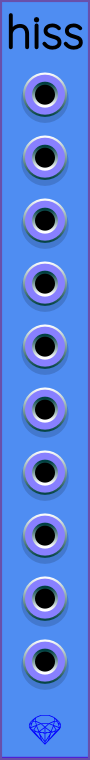
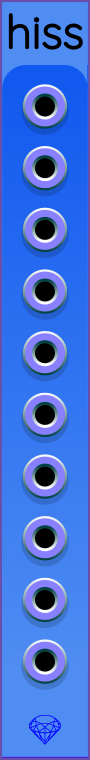
Hiss: added simple blue gradient as artwork.

diff --git a/util/make_sapphire_svg.py b/util/make_sapphire_svg.py
@@ -360,14 +360,18 @@ def GenerateHissPanel() -> int:
     panel = Panel(PANEL_WIDTH)
     pl = Element('g', 'PanelLayer')
     panel.append(pl)
+    defs = Element('defs')
+    pl.append(defs)
     controls = ControlLayer()
     pl.append(controls)
     xmid = panel.mmWidth / 2
-    ytop = 16.0
+    ytop = 18.0
     ybottom = 112.0
     dyOut = (ybottom - ytop) / (numOutputs - 1)
     with Font(SAPPHIRE_FONT_FILENAME) as font:
         pl.append(BorderRect(PANEL_WIDTH, SAPPHIRE_PANEL_COLOR, SAPPHIRE_BORDER_COLOR))
+        defs.append(Gradient(ytop - 7.0, panel.mmHeight - 15.0, '#1058ef', SAPPHIRE_PANEL_COLOR, 'gradient_hiss'))
+        pl.append(ControlGroupArt('hiss', 'hiss_art', panel, ytop - 7.0, panel.mmHeight - 15.0, 'gradient_hiss'))
         pl.append(CenteredGemstone(panel))
         pl.append(ModelNamePath(panel, font, 'hiss'))
         yout = ytop
